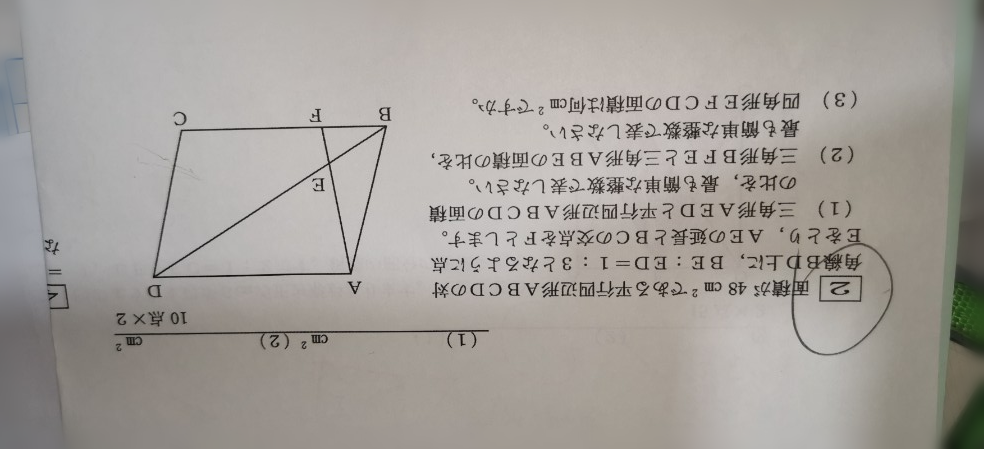
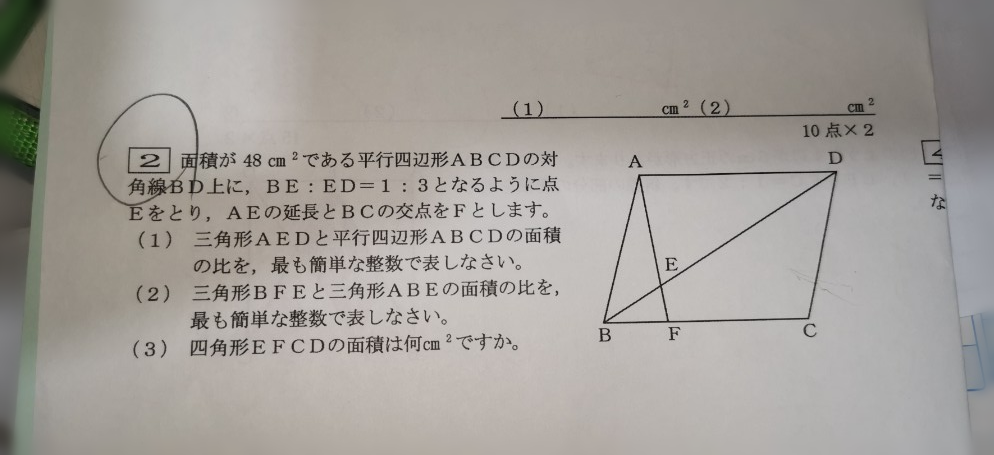
Fix geometry problem image orientation and enhance storyboard animation. (#10)
Correct processed image rotation and add scene-based animation pacing with focus mask, guided captions, and key-result highlighting for classroom narration.

Made-with: Cursor

diff --git a/lessons/math/elementary/geometry-area-ratio/parallelogram-diagonal-ratio/index.html b/lessons/math/elementary/geometry-area-ratio/parallelogram-diagonal-ratio/index.html
@@ -210,7 +210,7 @@
     .controls {
       margin-top: 10px;
       display: grid;
-      grid-template-columns: repeat(auto-fit, minmax(130px, 1fr));
+      grid-template-columns: repeat(auto-fit, minmax(120px, 1fr));
       gap: 8px;
     }
 
@@ -260,6 +260,43 @@
     }
 
     .chip b { margin-right: 6px; }
+
+    .scene-caption {
+      margin-top: 10px;
+      border: 1px solid #e5e7eb;
+      border-radius: 10px;
+      background: #f8fafc;
+      padding: 8px 10px;
+      font-size: 14px;
+      color: #1f2937;
+    }
+
+    .keyframes {
+      margin: 10px 0 0;
+      padding: 0;
+      list-style: none;
+      display: grid;
+      gap: 6px;
+    }
+
+    .keyframes li {
+      border: 1px solid #e5e7eb;
+      background: #fff;
+      border-radius: 10px;
+      padding: 8px 10px;
+      font-size: 13px;
+      color: #475569;
+      transition: all 0.2s ease;
+      opacity: 0.32;
+    }
+
+    .keyframes li.active {
+      border-color: #334155;
+      color: #111827;
+      background: #eef2ff;
+      transform: translateX(2px);
+      opacity: 1;
+    }
 
     @media (max-width: 860px) {
       .grid { grid-template-columns: 1fr; }
@@ -404,20 +441,30 @@
           <text id="beLabel" x="200" y="258" font-size="16" fill="#2563eb" opacity="0">BE = 1 part</text>
           <text id="edLabel" x="535" y="160" font-size="16" fill="#f59e0b" opacity="0">ED = 2 parts</text>
           <text id="sumLabel" x="24" y="32" font-size="16" fill="#374151">S(ABCD)=48, S(AED)=16, S(BFE):S(ABE)=1:2, S(EFCD)=20</text>
+          <rect id="focusDim" x="0" y="0" width="920" height="410" fill="#111827" opacity="0"></rect>
+          <circle id="focusRing" cx="355" cy="218" r="60" fill="none" stroke="#f8fafc" stroke-width="4" opacity="0"></circle>
         </svg>
 
         <div class="controls">
           <button id="playBtn" class="primary">再生</button>
           <button id="pauseBtn">暂停</button>
           <button id="resetBtn">重置</button>
-          <button id="toRatioBtn">跳到比例</button>
-          <button id="toAreaBtn">跳到面积</button>
+          <button id="toScene1Btn">分镜1</button>
+          <button id="toScene2Btn">分镜2</button>
+          <button id="toScene3Btn">分镜3</button>
         </div>
 
         <div class="slider-row">
           <input id="progressSlider" type="range" min="0" max="100" step="1" value="0" />
           <div id="clockText" style="font-weight:700;">0%</div>
         </div>
+
+        <div class="scene-caption" id="sceneText">分镜1：先聚焦 E 点与 BE:ED=1:2。</div>
+        <ul class="keyframes">
+          <li id="keyframe1">关键结论1：S(AED):S(ABCD)=1:3</li>
+          <li id="keyframe2">关键结论2：S(BFE):S(ABE)=1:2</li>
+          <li id="keyframe3">关键结论3：S(EFCD)=20 cm²</li>
+        </ul>
 
         <div class="legend">
           <div class="chip"><b style="color:#2563eb;">BLUE</b><span id="legend1">BE（1份）</span></div>
@@ -481,9 +528,19 @@
             ["3Blue1Brown determinant lesson", "https://www.3blue1brown.com/lessons/determinant"],
             ["Triangles on same base theorem explanation", "https://www.nagwa.com/en/explainers/192141038485/"]
           ],
-          play: "再生", pause: "一時停止", reset: "最初へ", toRatio: "比へ", toArea: "面積へ",
+          play: "再生", pause: "一時停止", reset: "最初へ", toScene1: "シーン1", toScene2: "シーン2", toScene3: "シーン3",
           legend: ["BE（1つ分）", "ED（2つ分）", "三角形 BFE", "三角形 AED"],
           sumLabel: "S(ABCD)=48, S(AED)=16, S(BFE):S(ABE)=1:2, S(EFCD)=20",
+          sceneTexts: [
+            "シーン1: E点と BE:ED=1:2 を色で確認",
+            "シーン2: AE と BD の関係から相似と面積比へ",
+            "シーン3: 面積分割を重ねて最終答えを確定"
+          ],
+          keyframes: [
+            "重要結論1: S(AED):S(ABCD)=1:3",
+            "重要結論2: S(BFE):S(ABE)=1:2",
+            "重要結論3: S(EFCD)=20 cm²"
+          ],
           verifyRows: [
             ["独立解法A", "面積比 + 相似", "(1)1:3, (2)1:2, (3)20", "小学生向けの主解法"],
             ["独立解法B", "座標法", "(1)1:3, (2)1:2, (3)20", "式で再現可能"],
@@ -537,9 +594,19 @@
             ["3Blue1Brown 行列式可视化", "https://www.3blue1brown.com/lessons/determinant"],
             ["同底同高（三角形面积定理）", "https://www.nagwa.com/en/explainers/192141038485/"]
           ],
-          play: "再生", pause: "暂停", reset: "重置", toRatio: "跳到比例", toArea: "跳到面积",
+          play: "再生", pause: "暂停", reset: "重置", toScene1: "分镜1", toScene2: "分镜2", toScene3: "分镜3",
           legend: ["BE（1份）", "ED（2份）", "三角形 BFE", "三角形 AED"],
           sumLabel: "S(ABCD)=48, S(AED)=16, S(BFE):S(ABE)=1:2, S(EFCD)=20",
+          sceneTexts: [
+            "分镜1：先聚焦 E 点与 BE:ED=1:2。",
+            "分镜2：从 AE 与 BD 的关系过渡到相似与面积比。",
+            "分镜3：叠加面积分块，逐帧收敛到最终结论。"
+          ],
+          keyframes: [
+            "关键结论1：S(AED):S(ABCD)=1:3",
+            "关键结论2：S(BFE):S(ABE)=1:2",
+            "关键结论3：S(EFCD)=20 cm²"
+          ],
           verifyRows: [
             ["独立解法A", "面积比 + 相似", "(1)1:3, (2)1:2, (3)20", "主解法，便于小学生理解"],
             ["独立解法B", "坐标法", "(1)1:3, (2)1:2, (3)20", "代数化复核"],
@@ -593,9 +660,19 @@
             ["3Blue1Brown determinant lesson", "https://www.3blue1brown.com/lessons/determinant"],
             ["Equal-area theorem for triangles", "https://www.nagwa.com/en/explainers/192141038485/"]
           ],
-          play: "Play", pause: "Pause", reset: "Reset", toRatio: "Jump to Ratio", toArea: "Jump to Area",
+          play: "Play", pause: "Pause", reset: "Reset", toScene1: "Scene 1", toScene2: "Scene 2", toScene3: "Scene 3",
           legend: ["BE (1 part)", "ED (2 parts)", "Triangle BFE", "Triangle AED"],
           sumLabel: "S(ABCD)=48, S(AED)=16, S(BFE):S(ABE)=1:2, S(EFCD)=20",
+          sceneTexts: [
+            "Scene 1: Focus on point E and BE:ED=1:2.",
+            "Scene 2: Move from AE/BD geometry to similarity and area ratio.",
+            "Scene 3: Layer area partitions and reveal final results."
+          ],
+          keyframes: [
+            "Key result 1: S(AED):S(ABCD)=1:3",
+            "Key result 2: S(BFE):S(ABE)=1:2",
+            "Key result 3: S(EFCD)=20 cm²"
+          ],
           verifyRows: [
             ["Independent method A", "Area ratio + similarity", "(1)1:3, (2)1:2, (3)20", "Primary student-friendly method"],
             ["Independent method B", "Coordinate method", "(1)1:3, (2)1:2, (3)20", "Algebraic cross-check"],
@@ -646,8 +723,9 @@
         playBtn: document.getElementById("playBtn"),
         pauseBtn: document.getElementById("pauseBtn"),
         resetBtn: document.getElementById("resetBtn"),
-        toRatioBtn: document.getElementById("toRatioBtn"),
-        toAreaBtn: document.getElementById("toAreaBtn"),
+        toScene1Btn: document.getElementById("toScene1Btn"),
+        toScene2Btn: document.getElementById("toScene2Btn"),
+        toScene3Btn: document.getElementById("toScene3Btn"),
         progressSlider: document.getElementById("progressSlider"),
         clockText: document.getElementById("clockText"),
         segBE: document.getElementById("segBE"),
@@ -662,6 +740,12 @@
         triAED: document.getElementById("triAED"),
         polyEFCD: document.getElementById("polyEFCD"),
         sumLabel: document.getElementById("sumLabel"),
+        focusDim: document.getElementById("focusDim"),
+        focusRing: document.getElementById("focusRing"),
+        sceneText: document.getElementById("sceneText"),
+        keyframe1: document.getElementById("keyframe1"),
+        keyframe2: document.getElementById("keyframe2"),
+        keyframe3: document.getElementById("keyframe3"),
         legend1: document.getElementById("legend1"),
         legend2: document.getElementById("legend2"),
         legend3: document.getElementById("legend3"),
@@ -686,6 +770,7 @@
       let revealedSteps = stepAnswers.length;
       let autoLangTimer = null;
       let playTimer = null;
+      let keyframeStage = 0;
 
       function fillList(el, arr) {
         el.innerHTML = arr.map((x) => `<li>${x}</li>`).join("");
@@ -729,13 +814,18 @@
         els.playBtn.textContent = tx.play;
         els.pauseBtn.textContent = tx.pause;
         els.resetBtn.textContent = tx.reset;
-        els.toRatioBtn.textContent = tx.toRatio;
-        els.toAreaBtn.textContent = tx.toArea;
+        els.toScene1Btn.textContent = tx.toScene1;
+        els.toScene2Btn.textContent = tx.toScene2;
+        els.toScene3Btn.textContent = tx.toScene3;
         els.legend1.textContent = tx.legend[0];
         els.legend2.textContent = tx.legend[1];
         els.legend3.textContent = tx.legend[2];
         els.legend4.textContent = tx.legend[3];
         els.sumLabel.textContent = tx.sumLabel;
+        els.sceneText.textContent = tx.sceneTexts[0];
+        els.keyframe1.textContent = tx.keyframes[0];
+        els.keyframe2.textContent = tx.keyframes[1];
+        els.keyframe3.textContent = tx.keyframes[2];
         els.autoLangBtn.textContent = autoLangTimer ? tx.autoOn : tx.autoOff;
 
         ["ja", "zh", "en"].forEach((k) => {
@@ -772,6 +862,14 @@
         stepAnswers.forEach((el, idx) => el.classList.toggle("hidden", idx >= revealedSteps));
       }
 
+      function setKeyframeStage(stage) {
+        keyframeStage = stage;
+        [els.keyframe1, els.keyframe2, els.keyframe3].forEach((k) => k.classList.remove("active"));
+        if (stage === 1) els.keyframe1.classList.add("active");
+        if (stage === 2) els.keyframe2.classList.add("active");
+        if (stage === 3) els.keyframe3.classList.add("active");
+      }
+
       function setProgress(v) {
         const p = Math.max(0, Math.min(100, Number(v)));
         els.progressSlider.value = String(p);
@@ -797,6 +895,40 @@
         els.triAED.setAttribute("fill", `rgba(124,58,237,${0.05 + areaPhase * 0.2})`);
         els.polyEFCD.setAttribute("fill", `rgba(245,158,11,${0.04 + areaPhase * 0.2})`);
         els.sumLabel.style.opacity = String(finalPhase);
+
+        const dimOpacity = p < 10 ? 0 : (p < 90 ? 0.2 : 0.28);
+        els.focusDim.style.opacity = String(dimOpacity);
+        els.focusRing.style.opacity = p < 12 ? "0" : "0.95";
+
+        const tx = i18n[lang];
+        let sceneIdx = 0;
+        if (p >= 70) sceneIdx = 2;
+        else if (p >= 35) sceneIdx = 1;
+
+        if (sceneIdx === 0) {
+          els.focusRing.setAttribute("cx", "355");
+          els.focusRing.setAttribute("cy", "218");
+          els.focusRing.setAttribute("r", "72");
+        } else if (sceneIdx === 1) {
+          els.focusRing.setAttribute("cx", "505");
+          els.focusRing.setAttribute("cy", "200");
+          els.focusRing.setAttribute("r", "118");
+        } else {
+          els.focusRing.setAttribute("cx", "530");
+          els.focusRing.setAttribute("cy", "240");
+          els.focusRing.setAttribute("r", "190");
+        }
+
+        els.sceneText.textContent = tx.sceneTexts[sceneIdx];
+        if (p <= 0) {
+          setKeyframeStage(0);
+        } else if (p < 34) {
+          setKeyframeStage(1);
+        } else if (p < 67) {
+          setKeyframeStage(2);
+        } else {
+          setKeyframeStage(3);
+        }
       }
 
       function play() {
@@ -808,7 +940,7 @@
             return;
           }
           setProgress(v + 1);
-        }, 45);
+        }, 65);
       }
 
       function pause() {
@@ -856,8 +988,18 @@
         pause();
         setProgress(0);
       });
-      els.toRatioBtn.addEventListener("click", () => setProgress(35));
-      els.toAreaBtn.addEventListener("click", () => setProgress(82));
+      els.toScene1Btn.addEventListener("click", () => {
+        setProgress(16);
+        setKeyframeStage(1);
+      });
+      els.toScene2Btn.addEventListener("click", () => {
+        setProgress(50);
+        setKeyframeStage(2);
+      });
+      els.toScene3Btn.addEventListener("click", () => {
+        setProgress(84);
+        setKeyframeStage(3);
+      });
       els.progressSlider.addEventListener("input", () => {
         pause();
         setProgress(els.progressSlider.value);
